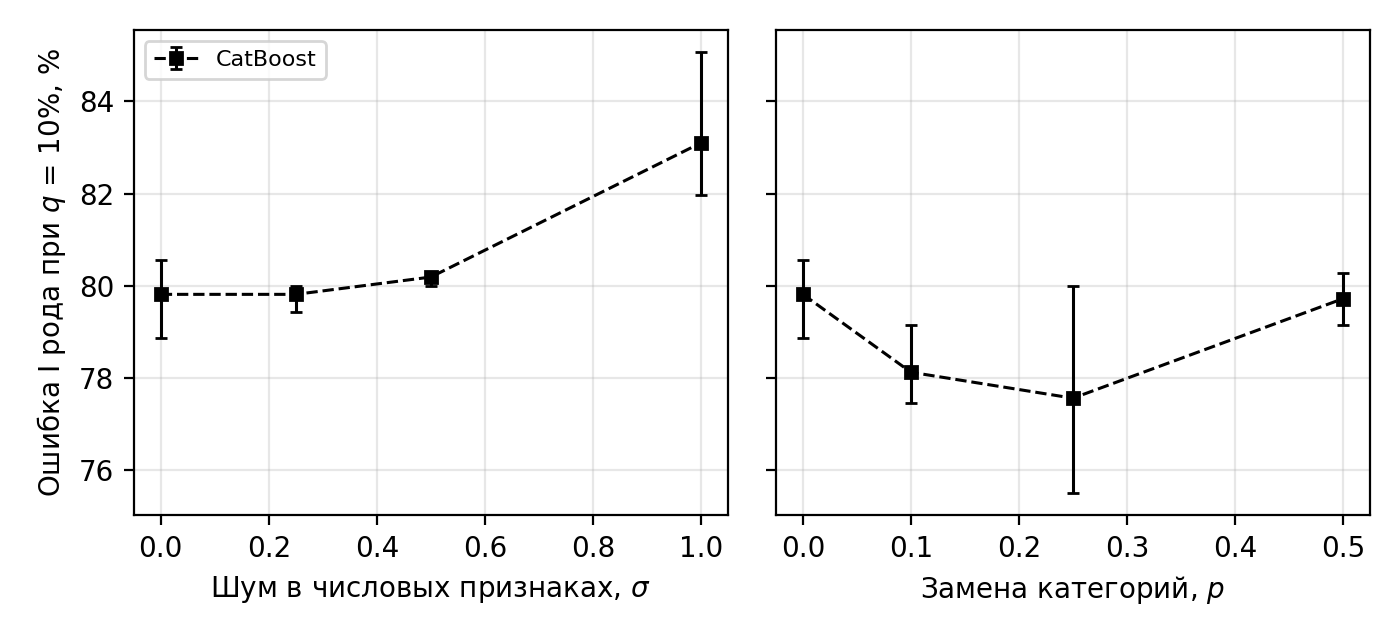
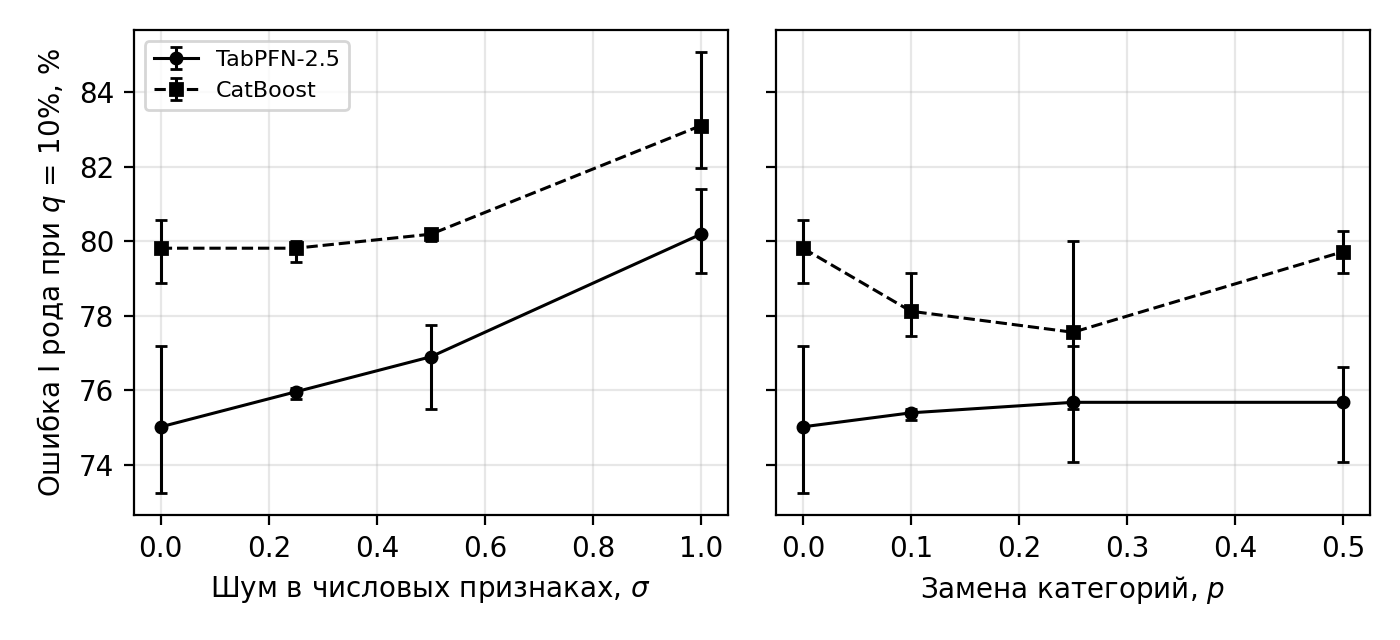
Manager: ROC AUC and E_II in table V, figures for q=10%

diff --git a/src/manager_cost.py b/src/manager_cost.py
@@ -28,7 +28,14 @@ import matplotlib
 matplotlib.use("Agg")
 import matplotlib.pyplot as plt
 
+from sklearn.metrics import roc_auc_score
+
 from manager import subset_idx, thr_reject, e1, load_runs, SUB
+
+
+def e2(reject, y):
+    neg = y == 0
+    return float(np.sum(reject & neg) / neg.sum())
 
 
 def parse_times(s):
@@ -67,10 +74,11 @@ def main():
 
     # E_I of both models per run (validation and test) and the time of both models
     for r in runs:
-        r["ev"], r["et"], r["rej_t"] = {}, {}, {}
+        r["ev"], r["et"], r["rej_t"], r["auc"], r["e2"] = {}, {}, {}, {}, {}
         for name, (pv, pt) in {"TabPFN-2.5": (r["tv"], r["tt"]), "CatBoost": (r["cv"], r["ct"])}.items():
             rv, rt = thr_reject(pv, pt, q)
             r["ev"][name], r["et"][name], r["rej_t"][name] = e1(rv, yv), e1(rt, yt), rt
+            r["auc"][name], r["e2"][name] = roc_auc_score(yt, pt), e2(rt, yt)
         r["time"] = {"TabPFN-2.5": tT[r["N"]], "CatBoost": tC[r["N"]]}
     t_ref = np.mean([r["time"]["TabPFN-2.5"] for r in runs])        # "TabPFN everywhere"
 
@@ -114,8 +122,12 @@ def main():
 
     rows, picks = [], {}
     print("Времена (с): TabPFN-2.5 %s; CatBoost %s" % (tT, tC))
-    print("q = %.0f%%; E_I на тесте: TabPFN везде %.4f (стоимость 1,00), CatBoost везде %.4f (стоимость %.2f)\n" % (
+    print("q = %.0f%%; E_I на тесте: TabPFN везде %.4f (стоимость 1,00), CatBoost везде %.4f (стоимость %.2f)" % (
         q * 100, e_tab, e_cat, np.mean([r["time"]["CatBoost"] for r in runs]) / t_ref))
+    for name in ("TabPFN-2.5", "CatBoost"):
+        print("   %-10s везде: ROC AUC %.4f, E_II %.4f" % (name, np.mean([r["auc"][name] for r in runs]),
+                                                           np.mean([r["e2"][name] for r in runs])))
+    print()
     for mu in args.mus:
         (tau_s, nm_s, L_v, C_v, J_v), win, grid = best(runs, mu)
         rej = [r["rej_t"][pick(r, tau_s, nm_s)] for r in runs]
@@ -123,8 +135,12 @@ def main():
         L_t, C_t = point(runs, tau_s, nm_s, "test")
         d_tab = np.percentile(b_m - b_tab, [2.5, 97.5])
         n_tab = sum(pick(r, tau_s, nm_s) == "TabPFN-2.5" for r in runs)
+        chosen = [pick(r, tau_s, nm_s) for r in runs]
+        auc_m = np.mean([r["auc"][c] for r, c in zip(runs, chosen)])
+        e2_m = np.mean([r["e2"][c] for r, c in zip(runs, chosen)])
         rows.append(dict(mu=mu, tau=tau_s, N_max=nm_s, n_minimum_points=len(win), J_val=round(J_v, 4),
-                         E_I_test=round(L_t, 4), cost=round(C_t, 3), runs_tabpfn=n_tab,
+                         E_I_test=round(L_t, 4), E_II_test=round(e2_m, 4), AUC_test=round(auc_m, 4),
+                         cost=round(C_t, 3), runs_tabpfn=n_tab,
                          vs_tabpfn=round(L_t - e_tab, 4), ci_low=round(d_tab[0], 4), ci_high=round(d_tab[1], 4),
                          vs_catboost=round(L_t - e_cat, 4)))
         picks[mu] = (tau_s, nm_s)
@@ -142,7 +158,7 @@ def main():
 
     tab = pd.DataFrame(rows)
     tab.to_csv(os.path.join(args.results, "manager_cost_q%02d.csv" % round(q * 100)), index=False, encoding="utf-8-sig")
-    show = tab[["mu", "tau", "N_max", "n_minimum_points", "E_I_test", "cost", "runs_tabpfn", "vs_tabpfn", "ci_low", "ci_high", "lono_E_I", "lono_cost"]]
+    show = tab[["mu", "tau", "N_max", "n_minimum_points", "E_I_test", "E_II_test", "AUC_test", "cost", "runs_tabpfn", "vs_tabpfn", "ci_low", "ci_high", "lono_E_I", "lono_cost"]]
     print(show.to_string(index=False))
     print("\n(vs_tabpfn: E_I менеджера минус E_I TabPFN везде, 95% ДИ; cost: относительное время, TabPFN везде = 1;")
     print(" lono_*: то же при выборе порогов без запусков проверяемого N, среднее по N)")
